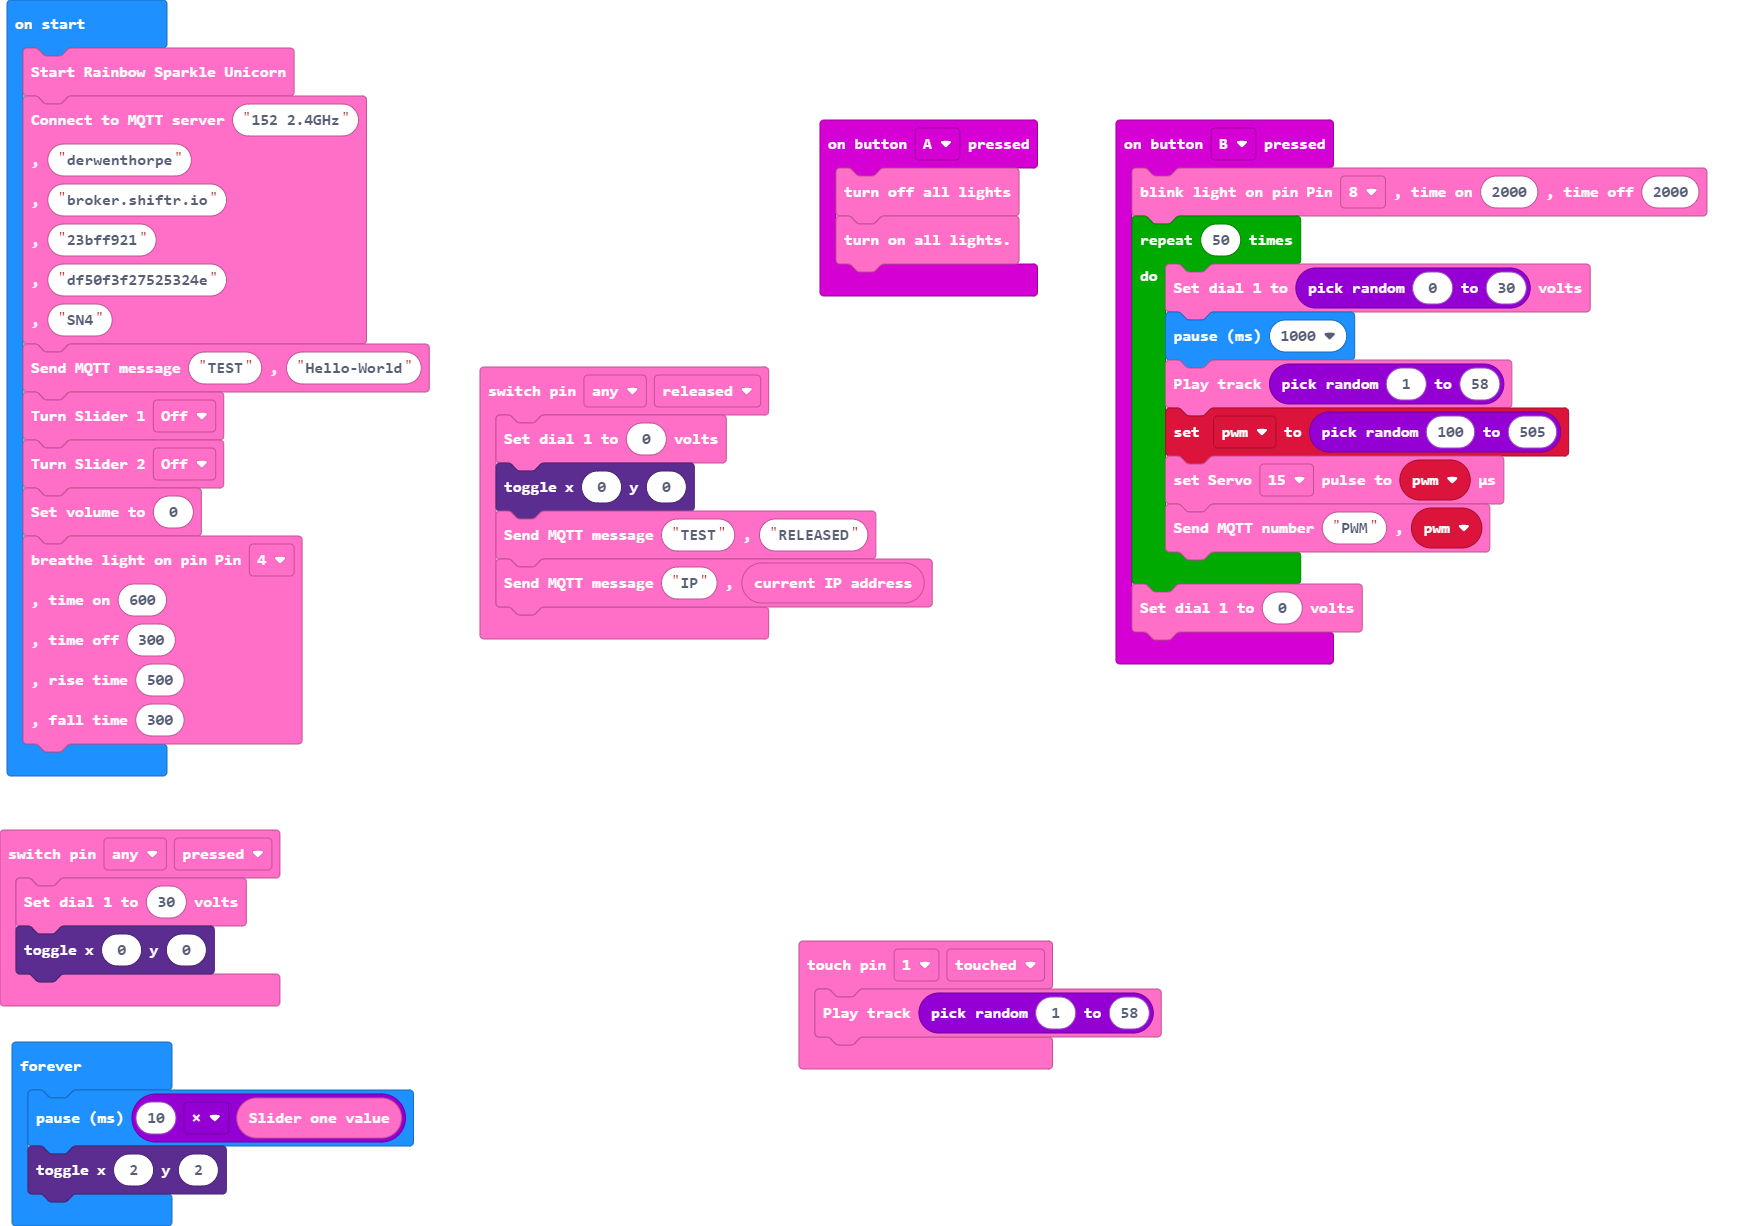
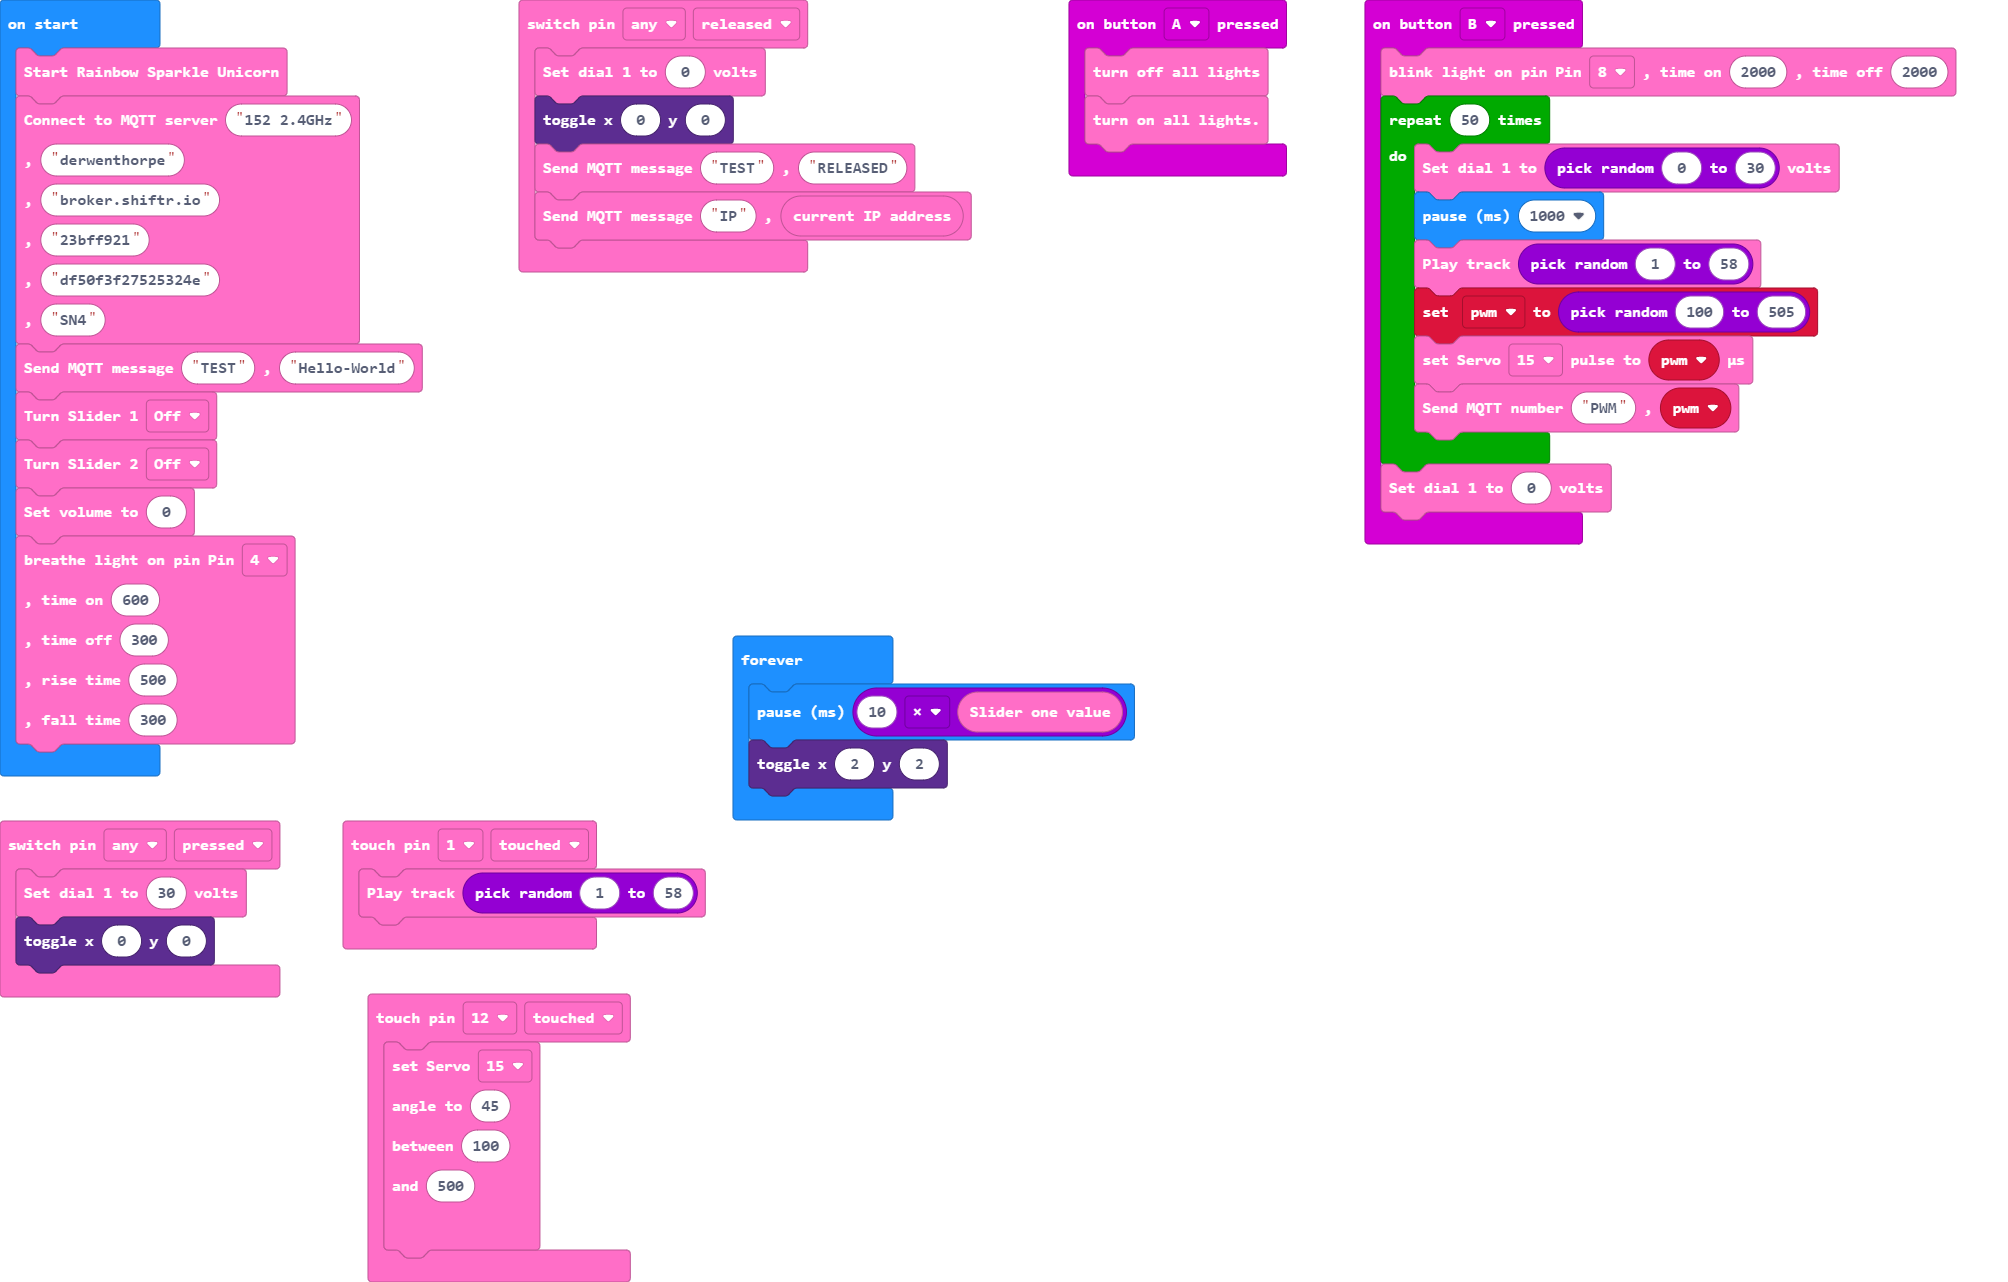
Update pxt.json, main.blocks, main.ts, movement.ts, light.ts, ESP32.ts, constants.ts, UART.ts, MQTT.ts

diff --git a/movement.ts b/movement.ts
@@ -1,14 +1,71 @@
 
 namespace RainbowSparkleUnicorn {
 
-    //% subcategory="Movement" 
+    //% subcategory="Expert" 
     //% block="set $servo pulse to %micros μs"
     //% micros.min=0 micros.max=4096
-    export function setPulse(servo: Servo, micros: number) {
+    export function setServoPulse(servo: Servo, micros: number) {
         micros = Math.clamp(0, 4096, micros);
 
-        sendMessage("V4," + servo + "," + micros);
+        sendMessage("V6," + servo + "," + micros);
     }
+
+    //% subcategory="Movement" 
+    //% block="set $servo angle to %angle between %minPulse and %maxPulse %%"
+    //% angle.min=0 angle.max=180
+    export function setServoAngle(servo: Servo, angle: number,minPulse: number, maxPulse: number) {
+        angle = Math.clamp(0, 180, angle);
+        minPulse = Math.clamp(0, 4096, minPulse);
+        maxPulse = Math.clamp(0, 4096, maxPulse);
+
+        sendMessage("V2," + servo + "," + angle + "," + minPulse + "," + maxPulse);
+    }
+ 
+        //% subcategory="Movement" 
+    //% block="move $servo linear from %fromAngle to %toAngle in %duration seconds (%minPulse and %maxPulse)"
+    //% toAngle.min=0 toAngle.max=180
+    //% fromAngle.min=0 fromAngle.max=180
+    //% duration.min=0 
+    export function moveServoLinear(servo: Servo, fromAngle: number, toAngle: number, duration:number, minPulse: number, maxPulse: number) {
+        fromAngle = Math.clamp(0, 180, fromAngle);
+        toAngle = Math.clamp(0, 180, toAngle);
+        duration = Math.min(0, duration);
+        minPulse = Math.clamp(0, 4096, minPulse);
+        maxPulse = Math.clamp(0, 4096, maxPulse);
+
+        sendMessage("V3," + servo + "," + fromAngle + "," + toAngle +"," + duration +"," + minPulse + "," + maxPulse);
+    }
+
+        //% subcategory="Movement" 
+    //% block="move $servo bouncy from %fromAngle to %toAngle in %duration seconds (%minPulse and %maxPulse)"
+    //% toAngle.min=0 toAngle.max=180
+    //% fromAngle.min=0 fromAngle.max=180
+    //% duration.min=0 
+    export function moveServoBouncy(servo: Servo, fromAngle: number, toAngle: number, duration:number, minPulse: number, maxPulse: number) {
+        fromAngle = Math.clamp(0, 180, fromAngle);
+        toAngle = Math.clamp(0, 180, toAngle);
+        duration = Math.min(0, duration);
+        minPulse = Math.clamp(0, 4096, minPulse);
+        maxPulse = Math.clamp(0, 4096, maxPulse);
+
+        sendMessage("V4," + servo + "," + fromAngle + "," + toAngle +"," + duration +"," + minPulse + "," + maxPulse);
+    }
+
+            //% subcategory="Movement" 
+    //% block="move $servo smoothly from %fromAngle to %toAngle in %duration seconds (%minPulse and %maxPulse)"
+    //% toAngle.min=0 toAngle.max=180
+    //% fromAngle.min=0 fromAngle.max=180
+    //% duration.min=0 
+    export function moveServoSmoothly(servo: Servo, fromAngle: number, toAngle: number, duration:number, minPulse: number, maxPulse: number) {
+        fromAngle = Math.clamp(0, 180, fromAngle);
+        toAngle = Math.clamp(0, 180, toAngle);
+        duration = Math.min(0, duration);
+        minPulse = Math.clamp(0, 4096, minPulse);
+        maxPulse = Math.clamp(0, 4096, maxPulse);
+
+        sendMessage("V5," + servo + "," + fromAngle + "," + toAngle +"," + duration +"," + minPulse + "," + maxPulse);
+    }
+
 }
 
 enum Servo {

diff --git a/UART.ts b/UART.ts
@@ -1,16 +1,15 @@
 namespace RainbowSparkleUnicorn {
 
    export function sendMessage(message: string): void {
-        //serial.writeLine(message);
         serial.writeString(message + "\r\n");
      }
 
-    serial.onDataReceived(serial.delimiters(Delimiters.Hash), function () {
+     serial.onDataReceived(serial.delimiters(Delimiters.Hash), function () {
         
-        let msg = serial.readUntil(serial.delimiters(Delimiters.Hash));
+         let msg = serial.readUntil(serial.delimiters(Delimiters.Hash));
 
-        parseRecievedMessage(msg);
-    })
+         parseRecievedMessage(msg);
+     })
 
     function parseRecievedMessage(message: string) {
     try {
@@ -90,22 +89,7 @@ namespace RainbowSparkleUnicorn {
             const pin = parseInt(message[1]);
 
             control.raiseEvent(RAINBOW_SPARKLE_UNICORN_MOTION_HALTED,pin);
-       }   
-      else if (message.indexOf("G1") == 0) {
-
-            MQTTIPAddress = message.split(",")[1];
-
-            //https://gist.github.com/jppommet/5708697
-            const IPasNumber = MQTTIPAddress.split('.').reduce(function(ipInt, octet) { return (ipInt<<8) + parseInt(octet, 10)}, 0) >>> 0;
-
-            control.raiseEvent(RAINBOW_SPARKLE_UNICORN_IP_ADDRESS, IPasNumber);           
-       }   
-      else if (message.indexOf("G2") == 0) {
-
-            const MQTTConnected = parseInt(message.split(",")[1]);
-
-           control.raiseEvent(RAINBOW_SPARKLE_UNICORN_MQTT_CONNECTED,MQTTConnected);           
-       }          
+       } 
 
     }  catch(err) {   
      sendMessage(err.message);

diff --git a/MQTT.ts b/MQTT.ts
@@ -8,10 +8,6 @@ namespace RainbowSparkleUnicorn {
     //% block="Connect to MQTT server $WiFiName,$WiFiPassword,$MQTTServer,$MQTTKey,$MQTTPassword,$MQTTClient"
     export function connectToInterWeb(WiFiName: string, WiFiPassword: string,MQTTServer: string,MQTTKey: string,MQTTPassword: string,MQTTClient: string) {
 
-        //TODO: improve this!
-        WiFiName = WiFiName.split(' ').join('PPP');
-        WiFiPassword = WiFiPassword.split(' ').join('PPP');        
-
         sendMessage("T1," + WiFiName);
         sendMessage("T2," + WiFiPassword);
         sendMessage("T3");
@@ -34,10 +30,6 @@ namespace RainbowSparkleUnicorn {
     //% subcategory="MQTT" 
     //% block="Send MQTT message $topic, $message"
     export function sendMQTTMessage(topic: string, message: string) {
-
-        //TODO: improve this!
-        //topic = topic.split(' ').join('PPP');
-        //message = message.split(' ').join('PPP');
 
         sendMessage("T9," + topic + "," + message);
     }
@@ -63,20 +55,5 @@ namespace RainbowSparkleUnicorn {
     }   
 
 
-   /**
-   * Do something when your connected to MQTT
-   * @param handler body code to run when event is raised
-   */
-    //% subcategory="MQTT"
-    //% block="on connected"
-    export function onMQTTConnected(handler: () => void) {
-        control.onEvent(
-           RAINBOW_SPARKLE_UNICORN_IP_ADDRESS,
-            MICROBIT_EVT_ANY,
-            () => {
-                handler();
-            }
-        );
-    }
 
 }

diff --git a/main.ts b/main.ts
@@ -11,6 +11,14 @@ input.onButtonPressed(Button.A, function () {
 RainbowSparkleUnicorn.onTouch(RainbowSparkleUnicorn.TouchSensor.T1, RainbowSparkleUnicorn.TouchAction.Touched, function () {
     RainbowSparkleUnicorn.playTrack(randint(1, 58))
 })
+RainbowSparkleUnicorn.onTouch(RainbowSparkleUnicorn.TouchSensor.T12, RainbowSparkleUnicorn.TouchAction.Touched, function () {
+    RainbowSparkleUnicorn.setServoAngle(
+    Servo.S15,
+    45,
+    100,
+    500
+    )
+})
 input.onButtonPressed(Button.B, function () {
     RainbowSparkleUnicorn.blink(Blinkable.Blinkable8, 2000, 2000)
     for (let index = 0; index < 50; index++) {
@@ -18,7 +26,7 @@ input.onButtonPressed(Button.B, function () {
         basic.pause(1000)
         RainbowSparkleUnicorn.playTrack(randint(1, 58))
         pwm = randint(100, 505)
-        RainbowSparkleUnicorn.setPulse(Servo.S15, pwm)
+        RainbowSparkleUnicorn.setServoPulse(Servo.S15, pwm)
         RainbowSparkleUnicorn.sendMQTTNumber("PWM", pwm)
     }
     RainbowSparkleUnicorn.dial1(0)

diff --git a/constants.ts b/constants.ts
@@ -2,8 +2,6 @@
 let MICROBIT_EVT_ANY = 0
 let RAINBOW_SPARKLE_UNICORN_TOUCH_SENSOR_TOUCHED = 2108
 let RAINBOW_SPARKLE_UNICORN_TOUCH_SENSOR_RELEASED = 2109
-let RAINBOW_SPARKLE_UNICORN_IP_ADDRESS = 2148
-let RAINBOW_SPARKLE_UNICORN_MQTT_CONNECTED = 2149
 let RAINBOW_SPARKLE_UNICORN_SOUND_BUSY = 2150
 let RAINBOW_SPARKLE_UNICORN_ROTARY_ONE_ROTATING = 2151
 let RAINBOW_SPARKLE_UNICORN_ROTARY_TWO_ROTATING = 2152
@@ -13,8 +11,6 @@ let RAINBOW_SPARKLE_UNICORN_SWITCH_PRESSED = 2155
 let RAINBOW_SPARKLE_UNICORN_SWITCH_RELEASED = 2156
 let RAINBOW_SPARKLE_UNICORN_MOTION_STOPPED = 2157
 let RAINBOW_SPARKLE_UNICORN_MOTION_HALTED = 2158
-
-
 
 let MQTTIPAddress:string = "0.0.0.0";
 

diff --git a/ESP32.ts b/ESP32.ts
@@ -48,7 +48,7 @@ let Encoder2value  = 0;
      * @value the value of the DAC output, eg: 46
      */
     //% subcategory="Expert" 
-    //% block="Set DAC 2 to $value" advanced=true
+    //% block="Set DAC 2 to $value"
     //% value.min=0 value.max=255
     export function DAC2(value: number) {
 
@@ -62,7 +62,7 @@ let Encoder2value  = 0;
      * @value the value of the DAC output, eg: 194
      */
     //% subcategory="Expert" 
-    //% block="Set DAC 1 to $value" advanced=true
+    //% block="Set DAC 1 to $value" 
     //% value.min=0 value.max=255
     export function DAC1(value: number) {
 

diff --git a/light.ts b/light.ts
@@ -50,7 +50,7 @@ namespace RainbowSparkleUnicorn {
     Turn off all lights must be called before.
 **/
     //% subcategory="Expert" 
-    //% block="turn on all lights." advanced=true
+    //% block="turn on all lights."
     export function turnAllOn() {
         sendMessage("Y3,0,1")        
         sendMessage("Y3,1,1")
